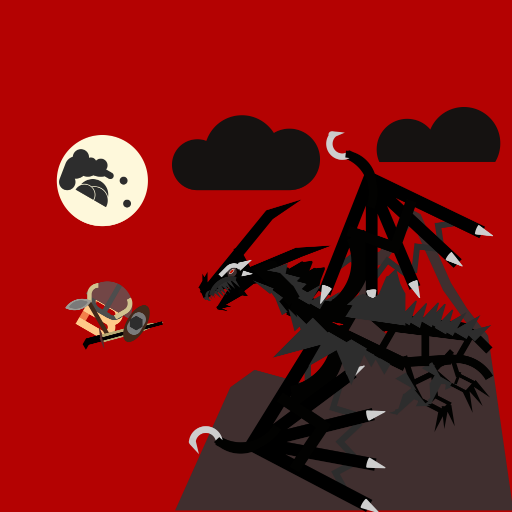
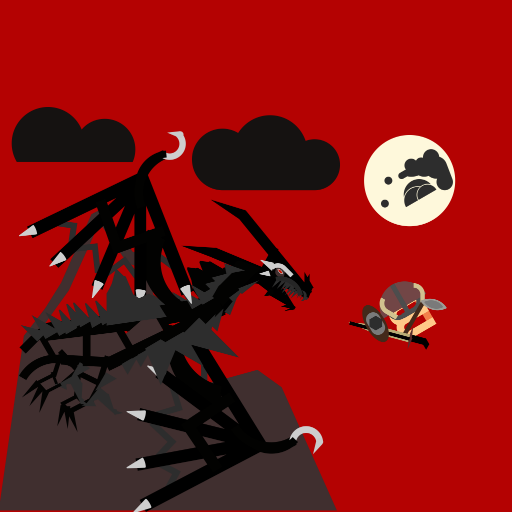
Made characters face each other, more

diff --git a/b/live.min.js b/b/live.min.js
@@ -1,1 +1,1 @@
-function id(a){return document.getElementById(a)}function object(a,e,t,o){this.name=a,this.stats=e,this.info=t,this.other=o,void 0==localStorage["has"+t[0].charAt(0).toUpperCase()+t[0].substring(1).replace("Boss","")]&&(localStorage[a]="true",localStorage["has"+t[0].charAt(0).toUpperCase()+t[0].substring(1).replace("Boss","")]="true"),void 0==localStorage[a]&&(localStorage[a]="false"),"true"==t[1]?goodNames[t[0].replace("+","Boss")].push(a):badNames[t[0].replace("+","Boss")].push(a),void 0!=goodNames[t[0]+"Boss"]&&"true"==t[1]&&goodNames[t[0]+"Boss"].push(a)}function convertClick(){if(!isMobile.any()){var a=document.querySelectorAll("[ontouchend]");for(i=0;i<a.length;i++)a[i].setAttribute("onclick",a[i].getAttribute("ontouchend"));requestAnimationFrame(convertClick)}}function loadLive(){id("body").oncontextmenu=function(a){a.preventDefault()},convertClick(),setTimeout(function(){id("logo").style.display="none",id("mainWrapper").style.display=""},1e3)}var isMobile={Android:function(){return navigator.userAgent.match(/Android/i)},iOS:function(){return navigator.userAgent.match(/iPhone|iPad|iPod/i)},Windows:function(){return navigator.userAgent.match(/IEMobile/i)},any:function(){return isMobile.Android()||isMobile.iOS()||isMobile.Windows()}},goodNames={url:"",original:["santa","skater","saw","spiky","electric","shark","ghost","dragonball","giant","spear","superhero"],bocracy:["knight","archer","barbed","flower","muscle","trump"],dinotera:["triceratops","t--rex","apatosaurus","carnotaurus"],dericil:["helicoprion","elasmosaurus","archeolon","megalodon","gar-school","giant-orthocone","alligator-gar","coelacanth","sea-scorpion","leedsichthys","mosasaur"],fantasy:["dovahkinn","mage","superhero","giant","dragonball","ghost"],aonarchy:[],aonarchyBoss:[],ammunist:[],ammunistBoss:[],ciftian:[],ciftianBoss:[],citatian:[],cerotopis:["light-warrior","paramedics","enslaved"],citopia:["overlapping","triple-odd","night"],alinar:["color-jetpack","thorn","mammoth-rider","flame-archer","eskimo-goblins","rogue","winter-pumpkins","toxin","iceanaut-2.0"],bictatorship:["worldwar","superhero","giant","barbed","muscle","electric","trump"]},badNames={url:"",original:["saw","spiky","electric","shark","ghost","dragonball","giant","spear","superhero"],bocracy:["knight","archer","barbed","flower","muscle","trump"],dinotera:["triceratops","t--rex","apatosaurus","carnotaurus"],dericil:["helicoprion","elasmosaurus","archeolon","megalodon","gar-school","giant-orthocone","alligator-gar","coelacanth","sea-scorpion","leedsichthys","mosasaur"],fantasy:["dovahkinn","mage","superhero","giant","dragonball","ghost"],aonarchy:[],aonarchyBoss:[],ammunist:[],ammunistBoss:[],ciftian:[],ciftianBoss:[],citatian:[],cerotopis:["ultacrabb","batalifor-1D0","dark-knight","f87-cannon"],citopia:["byter","batalifor-general","boverr-1D2","scubbars"],alinar:["cyclops","b--2-mobile-cannon","b--torv-snowtrooper","sub-batalifor","flamethrower","abomination","sasquatch"],bictatorship:["worldwar","superhero","giant","barbed","muscle","electric","trump"]},battles=["dericil","alinar","aonarchy","ammunist"],good={},bad={};good.goblin_horde=new object("goblin_horde",[50,3200,5],["aonarchy","true",1500,"a","goblin_horde","goblin_sword"]),good.goblin=new object("goblin",[15,1e3,10],["aonarchy","true",250,"a","goblin","goblin_sword"]),good.warrior=new object("warrior",[50,3e3,10],["aonarchy","true",1500,"a","warrior","warrior_sword"]),good.archer=new object("archer",[40,1250,20],["aonarchy","true",750,"a","archer","arrow"]),good.phantom=new object("phantom",[30,1500,15],["aonarchy","true",550,"a","phantom","shadowball"]),good.anonymous=new object("anonymous",[20,1500,15],["aonarchy","true",500,"a","anonymous","cyber_hand"]),good.a87_cannon=new object("a87_cannon",[60,2e3,5],["aonarchy","true",1500,"a","a87_cannon","cannonball"]),good.witchcraft=new object("witchcraft",[35,1500,20],["aonarchy","true",600,"a","witchcraft","spell"]),bad.sharkanator=new object("sharkanator",[100,5e3,0],["aonarchy","false",2500,"a","sharkanator","cannonball"]),bad.bentacrabb_2D1=new object("bentacrabb_2D1",[50,3200,5],["aonarchy","false",1500,"a","bentacrabb_2D1","cannonball"]),bad.bylo_ken=new object("bylo_ken",[35,1500,20],["aonarchy","false",600,"a","bylo_ken","saber"]),bad.d15_cannon=new object("d15_cannon",[60,2e3,5],["aonarchy","false",1500,"a","d15_cannon","cannonball"]),bad.sharkanatorBoss=new object("sharkanatorBoss",[100,5e3,0],["aonarchy+","false",2500,"a","sharkanatorBoss","cannonball"]),bad.bylo_kenBoss=new object("bylo_kenBoss",[35,1500,20],["aonarchy+","false",600,"a","bylo_kenBoss","saber"]),bad.d15_cannonBoss=new object("d15_cannonBoss",[60,2e3,5],["aonarchy+","false",1500,"a","d15_cannonBoss","cannonball"]),good.triple_odd=new object("triple_odd",[40,2500,20],["ciftian","true",1e3,"c","triple_odd","c_ball"]),good.night=new object("night",[25,1250,20],["ciftian","true",750,"c","night","shadowball"]),good.light_warrior=new object("light_warrior",[60,2250,15],["ciftian","true",1500,"c","light_warrior","warrior_sword"]),good.enslaved=new object("enslaved",[25,2250,10],["ciftian","true",850,"c","enslaved","c_ball"]),bad.ultacrabb=new object("ultacrabb",[60,2e3,5],["ciftian","false",1500,"a","ultacrabb","missile"]),bad.batalifor_1D0=new object("batalifor_1D0",[15,2e3,5],["ciftian","false",1e3,"a","batalifor_1D0","cannonball"]),bad.f87_cannon=new object("f87_cannon",[40,1250,20],["ciftian","false",750,"a","f87_cannon","missile"]),bad.dark_knight=new object("dark_knight",[60,2e3,5],["ciftian","false",1500,"a","dark_knight","dark_sword"]),bad.f87_cannonBoss=new object("f87_cannonBoss",[40,1250,20],["ciftian+","false",750,"a","f87_cannonBoss","missile"]),bad.ultacrabbBoss=new object("ultacrabbBoss",[60,2e3,5],["ciftian+","false",1500,"a","ultacrabbBoss","cannonball"]),bad.dark_knightBoss=new object("dark_knightBoss",[60,2e3,5],["ciftian+","false",1500,"a","dark_knightBoss","dark_sword"]),bad.batalifor_sentry=new object("batalifor_sentry",[60,2e3,5],["ammunist","false",1500,"a","batalifor_sentry","cannonball"]),bad.batalifor_2D4=new object("batalifor_2D4",[30,1e3,20],["ammunist","false",450,"a","batalifor_2D4","red_fluid_sword"]),bad.b__torv_troops=new object("b__torv_troops",[30,1500,15],["ammunist","false",550,"a","b__torv_troops","missile"]),bad.b__torv_commander=new object("b__torv_commander",[50,3e3,10],["ammunist","false",1e3,"a","b__torv_commander","saber"]),bad.b_shuttle=new object("b_shuttle",[50,3e3,10],["ammunist","false",1500,"a","b_shuttle","cannonball"]),good.guardian=new object("guardian",[20,1250,30],["ammunist","true",500,"a","guardian","fairy_dust"]),good.siren=new object("siren",[30,1e3,20],["ammunist","true",450,"a","siren","music"]),good.jak_o_anterns=new object("jak_o_anterns",[15,2e3,5],["ammunist","true",300,"a","jak_o_anterns","scythe"]),good.spiky=new object("spiky",[25,1750,5],["ammunist","true",600,"a","spiky","spikes"]),good.jetpack=new object("jetpack",[35,2250,15],["ammunist","true",1e3,"a","jetpack","fireball"]),good.worldwar=new object("worldwar",[30,2e3,15],["ammunist","true",800,"a","worldwar","shadowball"]),bad.batalifor_sentryBoss=new object("batalifor_sentryBoss",[60,2e3,5],["ammunist+","false",1500,"a","batalifor_sentryBoss","cannonball"]),bad.b_shuttleBoss=new object("b_shuttleBoss",[50,3e3,10],["ammunist+","false",1500,"a","b_shuttleBoss","cannonball"]),bad.bentacrabb_2D1Boss=new object("bentacrabb_2D1Boss",[50,3200,5],["ammunist+","false",1500,"a","bentacrabb_2D1Boss","cannonball"]),good.paramedics=new object("paramedics",[20,1250,30],["citatian","true",750,"c","paramedics","c_ball"]),good.overlapping=new object("overlapping",[40,3200,10],["citatian","true",1300,"c","overlapping","c_ball"]),bad.batalifor_general=new object("batalifor_general",[30,1500,15],["citatian","false",550,"a","batalifor_general","green_fluid_sword"]),bad.scubbars=new object("scubbars",[20,1500,15],["citatian","false",500,"a","scubbars","scorpion_spikes"]),bad.byter=new object("byter",[35,1500,20],["citatian","false",600,"a","byter","missile"]),bad.boverr_1D2=new object("boverr_1D2",[50,3e3,10],["citatian","false",1e3,"a","boverr_1D2","scorpion_spikes"]),document.addEventListener("DOMContentLoaded",loadLive,!1),localStorage.coins?localStorage.coins=Math.round(localStorage.coins):localStorage.coins=0,document.body.innerHTML="<div id='logo' style='width:100%;height:100%;background:#343838'><img src='img/banner.png' style='width:80%;position:absolute;margin:auto;left:0;right:0;top:0;bottom:0' /></div><div id='mainWrapper' style='width:100%;height:100%;display:none'>"+document.body.innerHTML+"</div>";
+function id(a){return document.getElementById(a)}function object(a,e,t,o){this.name=a,this.stats=e,this.info=t,this.other=o,void 0==localStorage["has"+t[0].charAt(0).toUpperCase()+t[0].substring(1).replace("Boss","")]&&(localStorage[a]="true",localStorage["has"+t[0].charAt(0).toUpperCase()+t[0].substring(1).replace("Boss","")]="true"),void 0==localStorage[a]&&(localStorage[a]="false"),"true"==t[1]?goodNames[t[0].replace("+","Boss")].push(a):badNames[t[0].replace("+","Boss")].push(a),void 0!=goodNames[t[0]+"Boss"]&&"true"==t[1]&&goodNames[t[0]+"Boss"].push(a)}function convertClick(){if(!isMobile.any()){var a=document.querySelectorAll("[ontouchend]");for(i=0;i<a.length;i++)a[i].setAttribute("onclick",a[i].getAttribute("ontouchend"));requestAnimationFrame(convertClick)}}function loadLive(){id("body").oncontextmenu=function(a){a.preventDefault()},convertClick(),setTimeout(function(){id("logo").style.display="none",id("mainWrapper").style.display=""},1e3)}var isMobile={Android:function(){return navigator.userAgent.match(/Android/i)},iOS:function(){return navigator.userAgent.match(/iPhone|iPad|iPod/i)},Windows:function(){return navigator.userAgent.match(/IEMobile/i)},any:function(){return isMobile.Android()||isMobile.iOS()||isMobile.Windows()}},goodNames={url:"",original:["santa","skater","saw","spiky","electric","shark","ghost","dragonball","giant","spear","superhero"],bocracy:["knight","archer","barbed","flower","muscle","trump"],dinotera:["triceratops","t--rex","apatosaurus","carnotaurus"],dericil:["helicoprion","elasmosaurus","archeolon","megalodon","gar-school","giant-orthocone","alligator-gar","coelacanth","sea-scorpion","leedsichthys","mosasaur"],fantasy:["dovahkinn","mage","superhero","giant","dragonball","ghost"],aonarchy:[],aonarchyBoss:[],ammunist:[],ammunistBoss:[],ciftian:[],ciftianBoss:[],citatian:[],cerotopis:["light-warrior","paramedics","enslaved"],citopia:["overlapping","triple-odd","night"],alinar:["color-jetpack","thorn","mammoth-rider","flame-archer","eskimo-goblins","rogue","winter-pumpkins","toxin","iceanaut-2.0"],bictatorship:["worldwar","superhero","giant","barbed","muscle","electric","trump"]},badNames={url:"",original:["electric","shark","ghost","dragonball","giant","spear","superhero"],bocracy:["knight","archer","barbed","flower","muscle","trump"],dinotera:["triceratops","t--rex","apatosaurus","carnotaurus"],dericil:["helicoprion","elasmosaurus","archeolon","megalodon","gar-school","giant-orthocone","alligator-gar","coelacanth","sea-scorpion","leedsichthys","mosasaur"],fantasy:["dovahkinn","mage","superhero","giant","dragonball","ghost"],aonarchy:[],aonarchyBoss:[],ammunist:[],ammunistBoss:[],ciftian:[],ciftianBoss:[],citatian:[],cerotopis:["ultacrabb","batalifor-1D0","dark-knight","f87-cannon"],citopia:["byter","batalifor-general","boverr-1D2","scubbars"],alinar:["cyclops","b--2-mobile-cannon","b--torv-snowtrooper","sub-batalifor","flamethrower","abomination","sasquatch"],bictatorship:["worldwar","superhero","giant","barbed","muscle","electric","trump"]},battles=["dericil","alinar","aonarchy","ammunist"],good={},bad={};good.goblin_horde=new object("goblin_horde",[50,3200,5],["aonarchy","true",1500,"a","goblin_horde","goblin_sword"]),good.goblin=new object("goblin",[15,1e3,10],["aonarchy","true",250,"a","goblin","goblin_sword"]),good.warrior=new object("warrior",[50,3e3,10],["aonarchy","true",1500,"a","warrior","warrior_sword"]),good.archer=new object("archer",[40,1250,20],["aonarchy","true",750,"a","archer","arrow"]),good.phantom=new object("phantom",[30,1500,15],["aonarchy","true",550,"a","phantom","shadowball"]),good.anonymous=new object("anonymous",[20,1500,15],["aonarchy","true",500,"a","anonymous","cyber_hand"]),good.a87_cannon=new object("a87_cannon",[60,2e3,5],["aonarchy","true",1500,"a","a87_cannon","cannonball"]),good.witchcraft=new object("witchcraft",[35,1500,20],["aonarchy","true",600,"a","witchcraft","spell"]),bad.sharkanator=new object("sharkanator",[100,5e3,0],["aonarchy","false",2500,"a","sharkanator","cannonball"]),bad.bentacrabb_2D1=new object("bentacrabb_2D1",[50,3200,5],["aonarchy","false",1500,"a","bentacrabb_2D1","cannonball"]),bad.bylo_ken=new object("bylo_ken",[35,1500,20],["aonarchy","false",600,"a","bylo_ken","saber"]),bad.d15_cannon=new object("d15_cannon",[60,2e3,5],["aonarchy","false",1500,"a","d15_cannon","cannonball"]),bad.sharkanatorBoss=new object("sharkanatorBoss",[100,5e3,0],["aonarchy+","false",2500,"a","sharkanatorBoss","cannonball"]),bad.bylo_kenBoss=new object("bylo_kenBoss",[35,1500,20],["aonarchy+","false",600,"a","bylo_kenBoss","saber"]),bad.d15_cannonBoss=new object("d15_cannonBoss",[60,2e3,5],["aonarchy+","false",1500,"a","d15_cannonBoss","cannonball"]),good.triple_odd=new object("triple_odd",[40,2500,20],["ciftian","true",1e3,"c","triple_odd","c_ball"]),good.night=new object("night",[25,1250,20],["ciftian","true",750,"c","night","shadowball"]),good.light_warrior=new object("light_warrior",[60,2250,15],["ciftian","true",1500,"c","light_warrior","warrior_sword"]),good.enslaved=new object("enslaved",[25,2250,10],["ciftian","true",850,"c","enslaved","c_ball"]),bad.ultacrabb=new object("ultacrabb",[60,2e3,5],["ciftian","false",1500,"a","ultacrabb","missile"]),bad.batalifor_1D0=new object("batalifor_1D0",[15,2e3,5],["ciftian","false",1e3,"a","batalifor_1D0","cannonball"]),bad.f87_cannon=new object("f87_cannon",[40,1250,20],["ciftian","false",750,"a","f87_cannon","missile"]),bad.dark_knight=new object("dark_knight",[60,2e3,5],["ciftian","false",1500,"a","dark_knight","dark_sword"]),bad.f87_cannonBoss=new object("f87_cannonBoss",[40,1250,20],["ciftian+","false",750,"a","f87_cannonBoss","missile"]),bad.ultacrabbBoss=new object("ultacrabbBoss",[60,2e3,5],["ciftian+","false",1500,"a","ultacrabbBoss","cannonball"]),bad.dark_knightBoss=new object("dark_knightBoss",[60,2e3,5],["ciftian+","false",1500,"a","dark_knightBoss","dark_sword"]),bad.batalifor_sentry=new object("batalifor_sentry",[60,2e3,5],["ammunist","false",1500,"a","batalifor_sentry","cannonball"]),bad.batalifor_2D4=new object("batalifor_2D4",[30,1e3,20],["ammunist","false",450,"a","batalifor_2D4","red_fluid_sword"]),bad.b__torv_troops=new object("b__torv_troops",[30,1500,15],["ammunist","false",550,"a","b__torv_troops","missile"]),bad.b__torv_commander=new object("b__torv_commander",[50,3e3,10],["ammunist","false",1e3,"a","b__torv_commander","saber"]),bad.b_shuttle=new object("b_shuttle",[50,3e3,10],["ammunist","false",1500,"a","b_shuttle","cannonball"]),good.guardian=new object("guardian",[20,1250,30],["ammunist","true",500,"a","guardian","fairy_dust"]),good.siren=new object("siren",[30,1e3,20],["ammunist","true",450,"a","siren","music"]),good.jak_o_anterns=new object("jak_o_anterns",[15,2e3,5],["ammunist","true",300,"a","jak_o_anterns","scythe"]),good.spiky=new object("spiky",[25,1750,5],["ammunist","true",600,"a","spiky","spikes"]),good.jetpack=new object("jetpack",[35,2250,15],["ammunist","true",1e3,"a","jetpack","fireball"]),good.worldwar=new object("worldwar",[30,2e3,15],["ammunist","true",800,"a","worldwar","shadowball"]),bad.batalifor_sentryBoss=new object("batalifor_sentryBoss",[60,2e3,5],["ammunist+","false",1500,"a","batalifor_sentryBoss","cannonball"]),bad.b_shuttleBoss=new object("b_shuttleBoss",[50,3e3,10],["ammunist+","false",1500,"a","b_shuttleBoss","cannonball"]),bad.bentacrabb_2D1Boss=new object("bentacrabb_2D1Boss",[50,3200,5],["ammunist+","false",1500,"a","bentacrabb_2D1Boss","cannonball"]),good.paramedics=new object("paramedics",[20,1250,30],["citatian","true",750,"c","paramedics","c_ball"]),good.overlapping=new object("overlapping",[40,3200,10],["citatian","true",1300,"c","overlapping","c_ball"]),bad.batalifor_general=new object("batalifor_general",[30,1500,15],["citatian","false",550,"a","batalifor_general","green_fluid_sword"]),bad.scubbars=new object("scubbars",[20,1500,15],["citatian","false",500,"a","scubbars","scorpion_spikes"]),bad.byter=new object("byter",[35,1500,20],["citatian","false",600,"a","byter","missile"]),bad.boverr_1D2=new object("boverr_1D2",[50,3e3,10],["citatian","false",1e3,"a","boverr_1D2","scorpion_spikes"]),document.addEventListener("DOMContentLoaded",loadLive,!1),localStorage.coins?localStorage.coins=Math.round(localStorage.coins):localStorage.coins=0,document.body.innerHTML="<div id='logo' style='width:100%;height:100%;background:#343838'><img src='img/banner.png' style='width:80%;position:absolute;margin:auto;left:0;right:0;top:0;bottom:0' /></div><div id='mainWrapper' style='width:100%;height:100%;display:none'>"+document.body.innerHTML+"</div>";

diff --git a/b/battle.min.css b/b/battle.min.css
@@ -1,1 +1,1 @@
-#backButton,header{left:0}#overlayStats,#restartText,#title,body,html{text-align:center}@font-face{font-family:Syncopate;font-style:normal;font-weight:400;src:local('Syncopate'),local('Syncopate-Regular'),url(syncopate.woff) format('woff')}body,html{width:100%;height:100%;margin:0;background:#3F51B5;cursor:url(img/cur.png),default;font-family:Syncopate,sans-serif;user-select:none;-webkit-user-select:none;overflow:hidden}.button,a{color:#fff;cursor:pointer}.clear{clear:both}a{text-decoration:underline}.button{border:1px solid #fff;background-color:#2E40A4;display:inline-block;margin:2.5px 9px;border-radius:3px;font-size:12px;padding:8px 15px;width:calc(100% - 50px)}.button:hover{background-color:#3F51B5;border:1px solid #2E40A4}@media screen and (min-height:351px),screen and (min-width:620px){header{height:50px!important;line-height:50px!important}section{height:calc(100% - 50px)}#backButton,#refreshButton{width:30px!important;margin-top:10px!important}#title{font-size:30px!important}}@media screen and (max-height:310px){#aSection,#bSection{zoom:80%}}@media screen and (max-height:500px){#aButton,#bButton{margin-top:50px!important}#clickToStart{top:50px!important}}@media screen and (max-width:800px){#clickToStart{font-size:15px!important;line-height:15px!important;padding:calc(25% - 6px) 0!important}}@media screen and (max-width:600px){#clickToStart{font-size:12px!important;line-height:12px!important;padding:calc(25% - 6px) 0!important}}@media screen and (orientation:portrait){#aSection,#bSection{display:none}#portrait{display:block!important}.theSword{display:none!important}#refreshButton{display:none}#overlay{display:none!important}}#portrait{display:none}header{width:100%;height:30px;line-height:30px;background:#3F51B5;position:absolute;top:0}#portrait h5{margin-top:50px}#backButton,#refreshButton{width:30px;margin-top:5px;position:absolute;top:0;z-index:4}#title,section{position:relative}#refreshButton{right:0}@media screen and (orientation:landscape){#title{font-size:25px}}#title{font-size:25px;margin-top:5px;z-index:3;font-weight:900}section{width:50%;height:100%;float:left;background-size:300%;background-repeat:no-repeat}#bSection{background-color:#64DD17;background-position:0 80%}#aSection{background-color:#b30005;background-position:50% 80%}#aButton,#bButton,#clickToStart{width:50%;padding:25% 0;background:100%/cover no-repeat #FFF;margin-left:25%}#aButton,#bButton{margin-top:15vh}#clickToStart{position:absolute;top:15vh;left:25%;opacity:.8;background-color:#3F51B5;color:#fff;font-weight:800;margin:0;font-size:20px;padding:calc(25% - 10px) 0;line-height:20px}#aHealth,#bHealth{width:180px;height:20px;margin:0 calc(50% - 90px);background:#F44336;border:4px solid #000;position:relative}#aHealthBar,#bHealthBar{width:100%;height:100%;background:#64DD17;transition:width .25s;position:absolute}#aHealth p,#bHealth p{position:relative;margin:0;top:0;line-height:20px;font-weight:900}#overlay,#restartText,.theSword{position:absolute}#aName,#bName{margin:5px 0;font-weight:900;display:inline-block;padding:5px}#aName{background:#b30005}#bName{background:#64DD17}#overlay{display:none;background:#3F51B5;width:100%;height:100%;top:0;left:0;color:#fff;z-index:10}#overlay img,#overlayStats span{height:calc(20vh - 4px);width:calc(20vh - 4px);border-radius:10vh;margin:5px 0;display:block;line-height:20vh;border:2px solid #fff}#overlay h5{height:26.56px;display:inline-block;margin-right:10vh;font-size:5vh}#overlayStats h5:last-child{margin-right:0}#overlay div:not(#restartText):not(#overlayText div):not(#overlayText){top:calc(50% - 80px);font-size:70px;position:absolute}#overlay div:not(#restartText){width:100%}#overlayText div:not(#overlayStats){font-size:100px;margin-top:10px}#restartText{font-size:40px;background:#2E40A4;border-radius:20px;margin:0 auto;left:0;right:0;bottom:10px;width:70%;border:4px solid #fff;line-height:40px;vertical-align:middle;clear:both}@media screen and (max-height:450px){#overlay div:not(#overlayStats){font-size:32px!important}#overlayText div:not(#overlayStats){font-size:75px!important}}.theSword{display:none;background:100%/cover no-repeat;width:26vh;height:13vh;animation-duration:.1s}#bSword{left:calc(75% - 125px);top:45vh}#aSword{left:calc(25% + 125px);top:20vh;transform:rotate(180deg)}@keyframes bSword{from{left:calc(50% - 50px)}to{left:calc(50% + 50px)}}@keyframes aSword{from{left:calc(50% + 50px)}to{left:calc(50% - 50px)}}#rotate{height:80vw;width:80vw;left:calc(50% - 89px)}#portrait h3{color:#fff}
+#backButton,header{left:0}#overlayStats,#restartText,#title,body,html{text-align:center}@font-face{font-family:Syncopate;font-style:normal;font-weight:400;src:local('Syncopate'),local('Syncopate-Regular'),url(syncopate.woff) format('woff')}body,html{width:100%;height:100%;margin:0;background:#3F51B5;cursor:url(img/cur.png),default;font-family:Syncopate,sans-serif;user-select:none;-webkit-user-select:none;overflow:hidden}.button,a{color:#fff;cursor:pointer}.clear{clear:both}a{text-decoration:underline}.button{border:1px solid #fff;background-color:#2E40A4;display:inline-block;margin:2.5px 9px;border-radius:3px;font-size:12px;padding:8px 15px;width:calc(100% - 50px)}.button:hover{background-color:#3F51B5;border:1px solid #2E40A4}@media screen and (min-height:351px),screen and (min-width:620px){header{height:50px!important;line-height:50px!important}section{height:calc(100% - 50px)}#backButton,#refreshButton{width:30px!important;margin-top:10px!important}#title{font-size:30px!important}}@media screen and (max-height:310px){#aSection,#bSection{zoom:80%}}@media screen and (max-height:500px){#aButton,#bButton{margin-top:50px!important}#clickToStart{top:50px!important}}@media screen and (max-width:800px){#clickToStart{font-size:15px!important;line-height:15px!important;padding:calc(25% - 6px) 0!important}}@media screen and (max-width:600px){#clickToStart{font-size:12px!important;line-height:12px!important;padding:calc(25% - 6px) 0!important}}@media screen and (orientation:portrait){#aSection,#bSection{display:none}#portrait{display:block!important}.theSword{display:none!important}#refreshButton{display:none}#overlay{display:none!important}}#portrait{display:none}header{width:100%;height:30px;line-height:30px;background:#3F51B5;position:absolute;top:0}#portrait h5{margin-top:50px}#backButton,#refreshButton{width:30px;margin-top:5px;position:absolute;top:0;z-index:4}#title,section{position:relative}#refreshButton{right:0}@media screen and (orientation:landscape){#title{font-size:25px}}#title{font-size:25px;margin-top:5px;z-index:3;font-weight:900}section{width:50%;height:100%;float:left;background-size:300%;background-repeat:no-repeat}#bSection{background-color:#64DD17;background-position:0 80%}#aSection{background-color:#b30005;background-position:50% 80%}#aButton,#bButton,#clickToStart{width:50%;padding:25% 0;background:100%/cover no-repeat #FFF;margin-left:25%}#aButton{transform:scaleX(-1)}#aButton,#bButton{margin-top:15vh}#clickToStart{position:absolute;top:15vh;left:25%;opacity:.8;background-color:#3F51B5;color:#fff;font-weight:800;margin:0;font-size:20px;padding:calc(25% - 10px) 0;line-height:20px}#aHealth,#bHealth{width:180px;height:20px;margin:0 calc(50% - 90px);background:#F44336;border:4px solid #000;position:relative}#aHealthBar,#bHealthBar{width:100%;height:100%;background:#64DD17;transition:width .25s;position:absolute}#aHealth p,#bHealth p{position:relative;margin:0;top:0;line-height:20px;font-weight:900}#overlay,#restartText,.theSword{position:absolute}#aName,#bName{margin:5px 0;font-weight:900;display:inline-block;padding:5px}#aName{background:#b30005}#bName{background:#64DD17}#overlay{display:none;background:#3F51B5;width:100%;height:100%;top:0;left:0;color:#fff;z-index:10}#overlay img,#overlayStats span{height:calc(20vh - 4px);width:calc(20vh - 4px);border-radius:10vh;margin:5px 0;display:block;line-height:20vh;border:2px solid #fff}#overlay h5{height:26.56px;display:inline-block;margin-right:10vh;font-size:5vh}#overlayStats h5:last-child{margin-right:0}#overlay div:not(#restartText):not(#overlayText div):not(#overlayText){top:calc(50% - 80px);font-size:70px;position:absolute}#overlay div:not(#restartText){width:100%}#overlayText div:not(#overlayStats){font-size:100px;margin-top:10px}#restartText{font-size:40px;background:#2E40A4;border-radius:20px;margin:0 auto;left:0;right:0;bottom:10px;width:70%;border:4px solid #fff;line-height:40px;vertical-align:middle;clear:both}@media screen and (max-height:450px){#overlay div:not(#overlayStats){font-size:32px!important}#overlayText div:not(#overlayStats){font-size:75px!important}}.theSword{display:none;background:100%/cover no-repeat;width:26vh;height:13vh;animation-duration:.1s}#bSword{left:calc(75% - 125px);top:45vh}#aSword{left:calc(25% + 125px);top:20vh;transform:rotate(180deg)}@keyframes bSword{from{left:calc(50% - 50px)}to{left:calc(50% + 50px)}}@keyframes aSword{from{left:calc(50% + 50px)}to{left:calc(50% - 50px)}}#rotate{height:80vw;width:80vw;left:calc(50% - 89px)}#portrait h3{color:#fff}

diff --git a/b/selector.html b/b/selector.html
@@ -38,12 +38,12 @@
 			<main id="freeplay">
 				<a onclick="location = 'battle.html?15#alinar'"><div>Alinar Snows</div></a>
 				<a onclick="location = 'battle.html?15#dinotera'"><div>Dinotera</div></a>
+				<a onclick="location = 'battle.html?15#dericil'"><div>Dericil Sea</div></a>
 				<a onclick="location = 'battle.html?15#cerotopis'"><div>Cerotopis</div></a>
 				<a onclick="location = 'battle.html?15#citopia'"><div>Citopia</div></a>
 				<a onclick="location = 'battle.html?15#bictatorship'"><div>Bictatorship</div></a>
 				<a onclick="location = 'battle.html?15#bocracy'"><div>bOcracy</div></a>
 				<a onclick="location = 'battle.html?15#fantasy'"><div>Fantasy Land</div></a>
-				<a onclick="location = 'battle.html?15#original'"><div>bVille</div></a>
 			</main>
 			<audio loop autoplay><source src="snd/theme.wav" type="audio/wav"></audio>
 			<div id="mapDiv">

diff --git a/b/live.js b/b/live.js
@@ -27,7 +27,7 @@ var goodNames = {
 			bictatorship : ['worldwar', 'superhero', 'giant', 'barbed', 'muscle', 'electric', 'trump']
 }, badNames = {
 			url : '',
-			original : ['saw', 'spiky', 'electric', 'shark', 'ghost', 'dragonball', 'giant', 'spear', 'superhero'],
+			original : ['electric', 'shark', 'ghost', 'dragonball', 'giant', 'spear', 'superhero'],
 			bocracy : ['knight', 'archer', 'barbed', 'flower', 'muscle', 'trump'],
 			dinotera : ['triceratops', 't--rex', 'apatosaurus', 'carnotaurus'],
 			dericil : ['helicoprion', 'elasmosaurus', 'archeolon', 'megalodon', 'gar-school', 'giant-orthocone', 'alligator-gar', 'coelacanth', 'sea-scorpion', 'leedsichthys', 'mosasaur'],

diff --git a/b/battle.css b/b/battle.css
@@ -95,6 +95,9 @@ section { width: 50%; height: 100%; float: left; position: relative;background-s
     background: #FFF 100%/cover no-repeat;
     margin-left: 25%;
 }
+#aButton {
+	transform: scaleX(-1)
+}
 #bButton, #aButton { margin-top: 15vh }
 #clickToStart {
     position: absolute;
